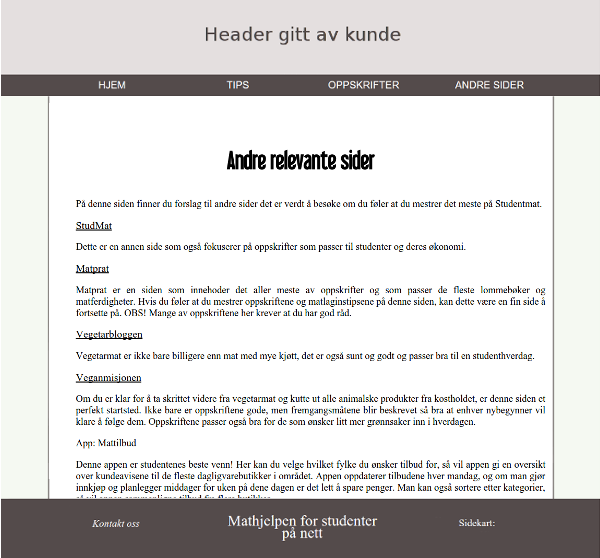
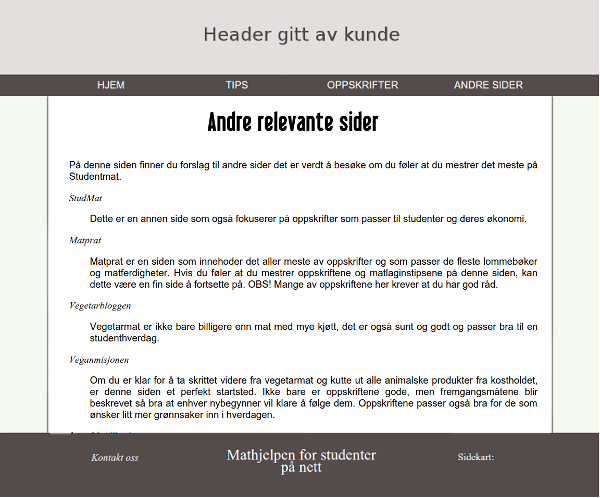
fyllt inn mer info

Changed region(s): [[0.0, 0.0, 1.0, 1.0], [0.33, 0.0301, 0.69, 0.0904]]

diff --git a/website/html/linker.html b/website/html/linker.html
@@ -14,16 +14,51 @@
        
             <ul class="listBullet">
                 <li>     <p>På denne siden finner du forslag til andre sider det er verdt å besøke om du føler at du mestrer det meste på Studentmat.</p></li>
+                
                 <li><a href="http://www.studmat.no">StudMat</a>
-                    <p>Dette er en annen side som også fokuserer på oppskrifter som passer til studenter og deres økonomi.</p></li>
-                <li><a href="http://www.matprat.no">Matprat</a>
-                    <p>Matprat er en siden som innehoder det aller meste av oppskrifter og som passer de fleste lommebøker og matferdigheter. Hvis du føler at du mestrer oppskriftene og matlaginstipsene på denne siden, kan dette være en fin side å fortsette på. OBS! Mange av oppskriftene her krever at du har god råd.</p></li>
-                <li><a href="http://www.vegetarbloggen.no">Vegetarbloggen</a><p>Vegetarmat er ikke bare billigere enn mat med mye kjøtt, det er også sunt og godt og passer bra til en studenthverdag.</p></li>
+                <ul>  
+                    <li>  
+                    <p>Dette er en annen side som også fokuserer på oppskrifter som passer til studenter og deres økonomi.</p>
+                    </li>
+                </ul>
+                </li>
+
+                <li><a href="http://www.matprat.no">Matprat</a>    
+                    <ul>  
+                        <li>                    <p>Matprat er en siden som innehoder det aller meste av oppskrifter og som passer de fleste lommebøker og matferdigheter. Hvis du føler at du mestrer oppskriftene og matlaginstipsene på denne siden, kan dette være en fin side å fortsette på. OBS! Mange av oppskriftene her krever at du har god råd.</p>
+                        </li>
+                    </ul>
+                </li>
+                <li><a href="http://www.vegetarbloggen.no">Vegetarbloggen</a>
+                    <ul>  
+                        <li> 
+                        <p>Vegetarmat er ikke bare billigere enn mat med mye kjøtt, det er også sunt og godt og passer bra til en studenthverdag.</p>
+                        </li>
+                    </ul>
+                </li>
                
-                <li><a href="http://www.veganmisjonen.com">Veganmisjonen</a><p>Om du er klar for å ta skrittet videre fra vegetarmat og kutte ut alle animalske produkter fra kostholdet, er denne siden et perfekt startsted. Ikke bare er oppskriftene gode, men fremgangsmåtene blir beskrevet så bra at enhver nybegynner vil klare å følge dem. Oppskriftene passer også bra for de som ønsker litt mer grønnsaker inn i hverdagen.</p></li>
+                <li><a href="http://www.veganmisjonen.com">Veganmisjonen</a>
+                    <ul>  
+                        <li> 
+                        <p>Om du er klar for å ta skrittet videre fra vegetarmat og kutte ut alle animalske produkter fra kostholdet, er denne siden et perfekt startsted. Ikke bare er oppskriftene gode, men fremgangsmåtene blir beskrevet så bra at enhver nybegynner vil klare å følge dem. Oppskriftene passer også bra for de som ønsker litt mer grønnsaker inn i hverdagen.</p>
+                        </li>
+                    </ul>
+                </li>
+
                 <li><p>App: Mattilbud</p>
-                    <p>Denne appen er studentenes beste venn! Her kan du velge hvilket fylke du ønsker tilbud for, så vil appen gi en oversikt over kundeavisene til de fleste dagligvarebutikker i området. Appen oppdaterer tilbudene hver mandag, og om man gjør innkjøp og planlegger middager for uken på dene dagen er det lett å spare penger. Man kan også sortere etter kategorier, så vil appen sammenligne tilbud fra flere butikker.</p></li>
-                <li><a href="http://www.allergikokken.no/">AllergiKokken</a><p>Om man er så uheldig å ha en matvareallergi kan det være vanskelig å leve på budsjett, da de fleste oppskrifter som er billige ofte inneholder egg, gluten eller laktose. På denne siden kan man krysse av for hvilke allergier man har, så vil siden vise oppskrifter som ikke inneholdet disse matvarene.</p></li>
+                    <ul>  
+                        <li> 
+                        <p>Denne appen er studentenes beste venn! Her kan du velge hvilket fylke du ønsker tilbud for, så vil appen gi en oversikt over kundeavisene til de fleste dagligvarebutikker i området. Appen oppdaterer tilbudene hver mandag, og om man gjør innkjøp og planlegger middager for uken på dene dagen er det lett å spare penger. Man kan også sortere etter kategorier, så vil appen sammenligne tilbud fra flere butikker.</p>
+                        </li>    
+                    </ul>
+                </li>
+                <li><a href="http://www.allergikokken.no/">AllergiKokken</a>
+                    <ul>  
+                        <li> 
+                        <p>Om man er så uheldig å ha en matvareallergi kan det være vanskelig å leve på budsjett, da de fleste oppskrifter som er billige ofte inneholder egg, gluten eller laktose. På denne siden kan man krysse av for hvilke allergier man har, så vil siden vise oppskrifter som ikke inneholdet disse matvarene.</p>
+                        </li>    
+                    </ul>
+                </li>
                 
                 
             </ul>

diff --git a/Documents/P2_requirements.html b/Documents/P2_requirements.html
@@ -230,7 +230,7 @@
             </p>
             <img src="mockups/linkermockup.png" alt="Mockup"> 
             <p class="bilde">
-                Listen vil ikke ha bullet-points, og linkene vil skille seg fra resten av teksten.
+                Listen vil ikke ha bullet-points, og linkene vil skille seg fra resten av teksten. Beskrivelsen til linkene vil også ha et lite innrykk fra linkene.
             </p>
             
             <h3>Kontakt oss</h3>
@@ -239,7 +239,7 @@
             </p>
             <img src="mockups/formmockup.png" alt="Mockup"> 
             <p class="bilde">
-                Skjemaet vil se slik ut. 
+                Skjemaet vil se slik ut. Designet er enkelt og man ser med en gang hva man skal fylle inn/ikke trenger å fylle inn. Dropdown-menyen har to kategorier: "Forslag til innhold" og "teknisk feil på siden"
             </p>
             <img src="mockups/formmockup2.png" alt="Mockup"> 
             <p class="bilde">
@@ -263,8 +263,11 @@
             </p>
             <ul class="listeBullet">
                 <li>Skjemavalidering</li>
+                <p>Dette scriptet vil sørge for at man ikke kan sende inne skjema uten at alle feltene er fyllt ut. Man vil få opp en feilmelding i tillegg til at feltene som ikke er fyllt ut blir farget røde. Dette er for å få et mer brukervennlig skjema og at man lett vet hva man må endre på. Man vil også få en melding om at skjemaet ble sendt når man har sendt det inn. Dette for at man skal slippe å lure på om det skjedde noe da man trykket på "send"-knappen. Da unngår vi også at brukeren sender på nytt for å være sikker.</p>
                 <li>Highlighting av siden man er på i navigasjonsbar.</li>
+                <p>Dette har også med brukervennlighet å gjøre. Navigasjonsmenyen vil indikere hvilken side man er inne på slik at man har bedre oversikt. Hvis man for eksempel er inne på en av tips-sidene, vil tabben det står tips på ha en annen farge enn resten av navigasjonsmenyen.</p>
                 <li>Randomized oppskrift</li>
+                <p>Denne vil bli laget om vi har tid til overs, da vi ser på de andre scriptene som viktigere for brukeren. Grunnen til at det skal være en tilfeldig oppskrift på forsiden er for at brukeren raskt skal få forslag til en oppskrift, da sannsynligheten er stor for at de besøker siden for noe rakst, billig og enkelt å lage.</p>
             </ul>
             <p>
                 Dora Oline og Aasne:
@@ -319,12 +322,11 @@
                             </ul>
                         </li>
                         <li>
-                            <p>bilde/</p>
+                            <p>bilder/</p>
                             <ul>
                                 <li>header.jpg</li>
-                                <li>
-                                    <ul class="listeBullet">
-                                        <p>oppskriftsbilder/</p>
+                                <li><p>oppskriftsbilder/</p></li>
+                                    <ul class="listeBullet">    
                                         <li><p>BLT-sandwich.jpg</p></li>
                                         <li><p>ertesuppe.jpg</p></li>
                                         <li><p>falafler.jpg</p></li>
@@ -336,7 +338,6 @@
                                         <li><p>pitaMedKremost.jpg</p></li>
                                         <li><p>Pizzasnurrer.jpg</p></li>
                                     </ul>
-                                </li>
                                 <li>
                                     <p>icons/</p>
                                     <ul class="listeBullet">
@@ -366,13 +367,13 @@
                 </tr>
                 <tr>
                     <th scope="col">index.html</th>
-                    <td>Forsiden</td>
+                    <td>Forsiden. Kort info om sidens bakgrunn, innhold og en tilfeldig oppskrift brukeren kan starte med.</td>
                     <td>Katrine</td>
                     <td>29.10.2015</td>
                 </tr>
                 <tr>
                     <th scope="col">nav.html</th>
-                    <td></td>
+                    <td>Linker til alle sidens undersider, med unntak av kontaktskjema, som vil ligge i footer.</td>
                     <td>Alle</td>
                     <td>12.11.2015</td>
                 </tr>
@@ -418,13 +419,13 @@
                 <tr>
                     <th scope="col">andresider.html</th>
 
-                    <td>Linker til andre sider</td>
+                    <td>Linker til andre sider, nyttig for de som kan mye av det som er på vår side, og som vil lære mer.</td>
                     <td>Katrine</td>
                     <td>29.10.2015</td>
                 </tr>
                 <tr>
                     <th scope="col">kontakt.html</th>
-                    <td>Form for tilbakemelding</td>
+                    <td>Skjema for tilbakemelding, nyttig for videre drift av siden.</td>
                     <td>Katrine</td>
                     <td>29.10.2015</td>
                 </tr>

diff --git a/website/general.css b/website/general.css
@@ -192,7 +192,7 @@ li > ul.underMeny {
 
 /**/
 #main a:link{
-	text-decoration: underline;
+	font-style: italic;
 }
 
 #main a:hover{
